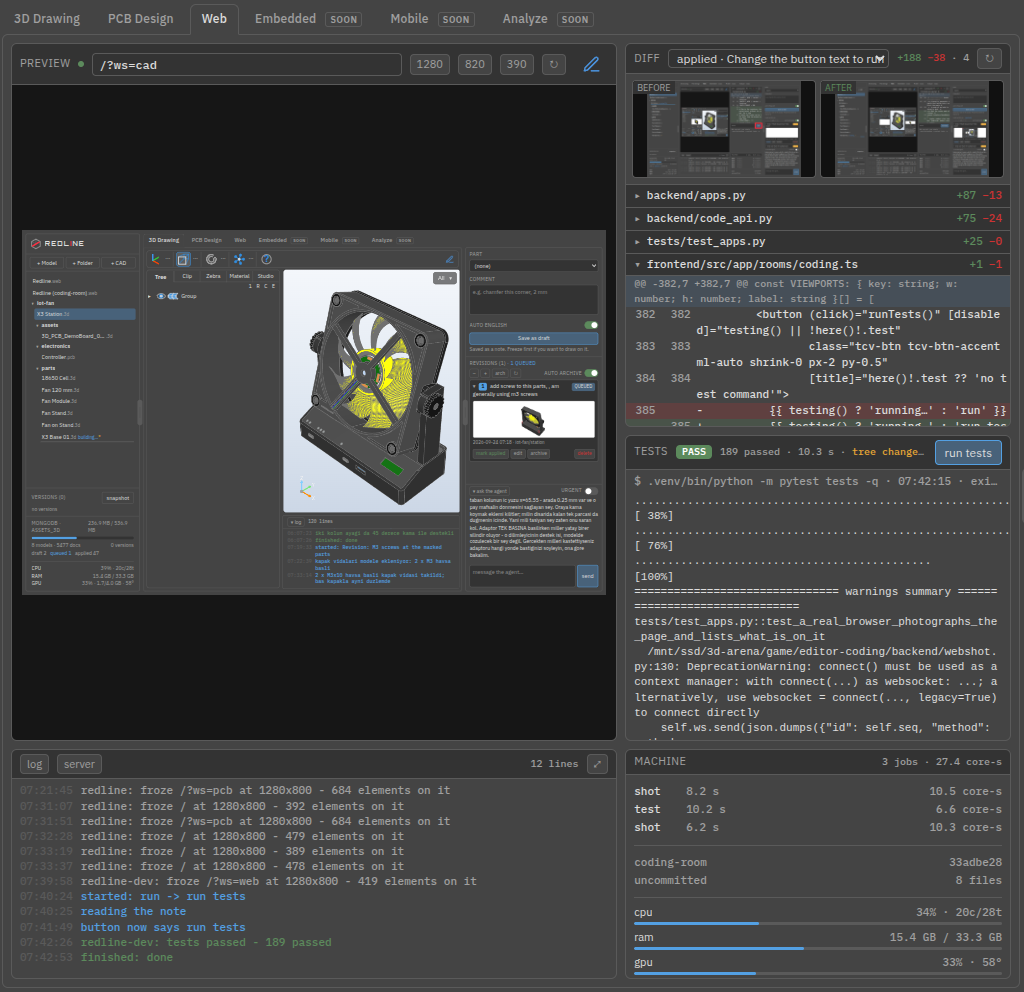
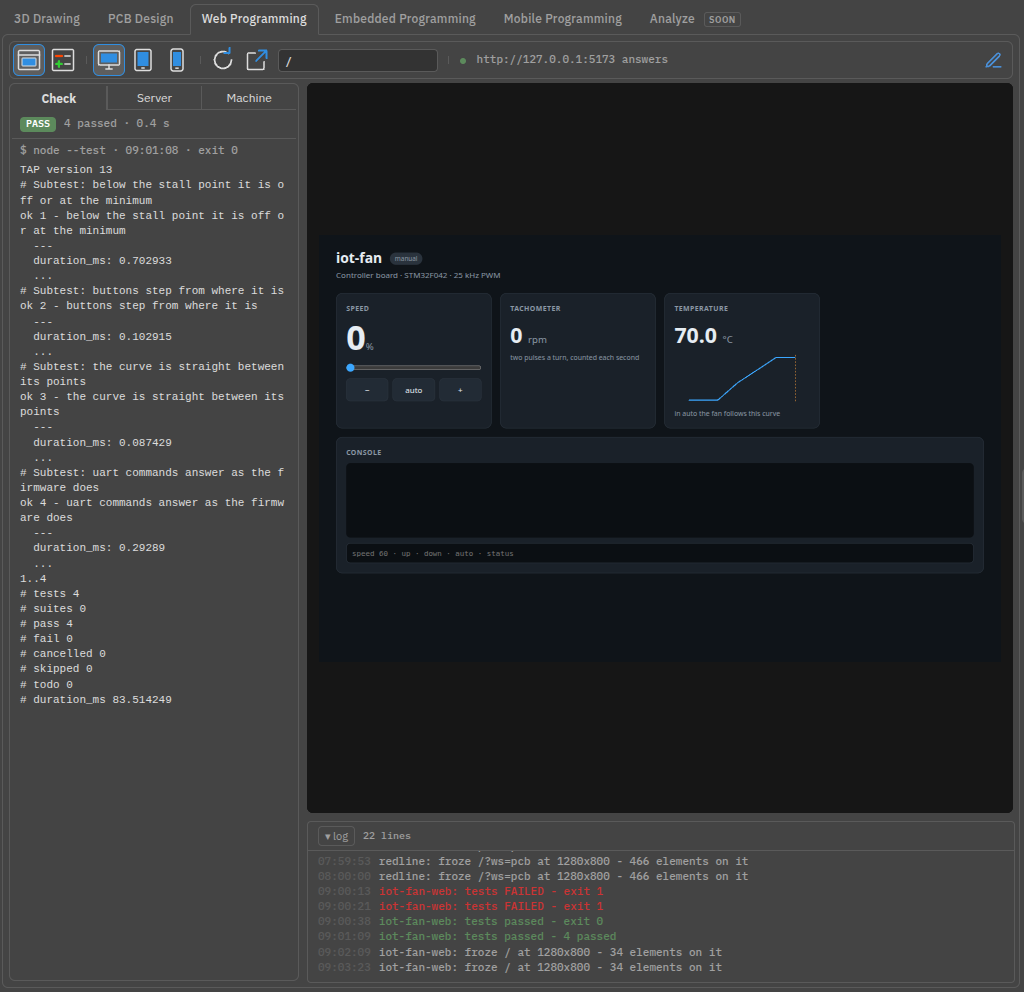
The documents say what the programming rooms are now
README, USAGE, INSTALL, AGENTS, the asset-revisions skill and BACKLOG
had fallen behind the rooms: they still called the tabs Web, Embedded
and Mobile, said Embedded and Mobile only had "what their preview still
needs", described a start-the-dev-server button, host Chrome, and
Redline on 4200 as the example project.

Now: the three rooms by their names, on the one layout every room
shares; nothing running on the host and no button running anything;
Embedded as the firmware view with a picked function as the Part, STM32
and ESP32; Mobile as the emulated phone; the iot-fan projects as the
examples. INSTALL has the three images with their sizes and build times,
KVM for the phone, and why Docker's storage is on /mnt/ssd. AGENTS has
the full `code` command set, the rule not to install around a missing
image, and chat by room; the skill sends non-model notes to their room's
agent. New screenshots, cropped to the room: web-room.png (the live
dashboard and its passing tests), embedded-room.png (the STM32 firmware,
fan_command picked), mobile-room.png (the app on the phone).

diff --git a/USAGE.md b/USAGE.md
@@ -4,16 +4,17 @@
 
 ## The rooms
 
-Along the top: **3D Drawing**, **PCB Design**, **Web**, **Embedded**,
-**Mobile**, **Analyze**. The three in the middle are the coding rooms;
-Web is built, Embedded and Mobile share its notes, diff and tests and
-say what their preview still needs, and Analyze opens on what it needs
-before it can exist. `?ws=pcb` in the URL opens one, and the browser
-remembers the last one you were in.
+Along the top: **3D Drawing**, **PCB Design**, **Web Programming**,
+**Embedded Programming**, **Mobile Programming** and **Analyze**. All but
+Analyze are built, and every built room has the same layout - the 3D
+room's: a toolbar across the top with the pen at its end, tabs down the
+left, the view, and the room's own log under it. Analyze opens on what it
+needs before it can exist. `?ws=pcb` in the URL opens a room, and the
+browser remembers the last one you were in.
 
 The left column belongs to no room. One tree holds everything: a model is
-a `.3d`, a board is a `.pcb`, a code project a `.web`, `.fw` or
-`.mobile`, and clicking any of them opens the room that can show it.
+a `.3d`, a board is a `.pcb`, a program a `.web`, `.fw` or `.mobile`, and
+clicking any of them opens the room that can show it.
 
 The 3D room stays loaded whichever tab is showing — its viewer holds a
 WebGL context and tens of megabytes of geometry, and throwing that away to
@@ -338,46 +339,85 @@ circuit, and is not on the board: there is no shape to place. It is named
 under the drawing — *no footprint for U3* — rather than quietly left out,
 and a part number that does not exist says so the same way.
 
-## Web, Embedded, Mobile
+## Web, Embedded and Mobile Programming
 
-Redlining a running interface. A project is a git checkout with a dev
-server: the room shows the page it serves in a frame, at a route and a
-size - 1280, 820 or 390 wide - scaled into a dark surround so the page
-reads as it renders. Nothing answering? **start the dev server** runs
-the project's own command and its output goes to the **server** tab.
+Redlining a running program. A project is a git checkout: where it is
+served, how it is built, and the command whose exit code says it still
+works. The example projects are **iot-fan**'s - the dashboard, the phone
+app and the controller firmware for the fan in the 3D room, in
+`/mnt/ssd/3d-arena/projects/iot-fan`.
 
-![The Web room: a note's diff with its before and after, and the tests](docs/web-room.png)
+Nothing runs on the machine itself. Each room has its own Docker image
+(see [INSTALL](INSTALL.md)): a page is served and photographed in
+`redline-code-web`, firmware is built and flashed in
+`redline-code-embedded`, and the phone is an emulator in
+`redline-code-mobile`. Nor is there a button that runs anything: the
+person marks, and the agent starts servers, builds, tests and flashes.
 
-**Freeze** is the 3D room's pen button. It takes a real screenshot of the
-route with headless Chrome - about five seconds - and puts the same seven
-drawing tools over it. Every mark is laid on the page's elements as it is
-drawn: a ring means the outermost element mostly inside it, an arrow the
+### Web Programming
+
+![The Web room: the iot-fan dashboard, live, and its tests](docs/web-room.png)
+
+The page runs in the view, in a frame at a chosen size - desktop, tablet
+or phone, from the toolbar - scaled into a dark surround so it reads as it
+renders. **The pen** takes a real screenshot of the route in the web
+container's Chrome, about three seconds, and puts the same seven drawing
+tools over it. Every mark is laid on the page's elements as it is drawn:
+a ring means the outermost element mostly inside it, an arrow the
 smallest element under its head. What it landed on is outlined over the
-picture, listed under it, and offered in the Part field as
-`button.tcv-btn "build" · rooms/pcb.ts` - which button, in which file.
-**Save as draft** files the note with the picture and that list.
+picture and offered in the Part field with its file -
+`#duty "0" · public/index.html`, or `button.tcv-btn "build" ·
+rooms/pcb.ts` for an Angular component. **Save as draft** files the note
+with the picture and that list.
 
-The **diff** pane shows the working tree against HEAD, or one note's own
-change: only the files that moved since it was drawn, so somebody else's
-uncommitted work in the same checkout stays out of it. Pick a note and
-its before and after sit over its diff - the same route at the same size,
-twice. **tests** runs the project's test command; a pass says when the
-tree has changed since, rather than showing a green from an older tree. A
-note is not done until they pass and the after shot is taken, and the
+### Embedded Programming
+
+![The Embedded room: the STM32 firmware as built, a function picked](docs/embedded-room.png)
+
+Firmware has no screen to draw on, so there is no pen here. The view is
+the firmware as built: memory per region - with how much it grew since
+the build before - and the largest functions and tables, file by file.
+Click one and it becomes the note's Part, `fan_command ·
+firmware/common/fan.c:66`, the way the board room offers its components.
+STM32 and ESP32 both: the ARM or Xtensa toolchain is chosen from the
+image itself. The **Boards** tab lists an ST-Link or an ESP32 serial port
+when one is plugged in, and the agent programs it (`code flash`).
+
+### Mobile Programming
+
+![The Mobile room: the iot-fan app on the emulated phone](docs/mobile-room.png)
+
+The view is the phone - an emulated Pixel 7 on KVM, its screen refreshed
+every second and a half, the project put on it when its room opens. The
+pen freezes the phone's own screen; a page's elements come from the
+phone's Chrome and a native app's from its view tree, both in the
+screen's pixels, so a ring round the **+** button is `#up "+" ·
+mobile/public/index.html:26`.
+
+### The diff, the check
+
+The toolbar's second button turns the view into the **diff**: the working
+tree against HEAD, or one note's own change - only the files that moved
+since it was drawn, so somebody else's uncommitted work in the same
+checkout stays out of it - with the note's before and after over it. The
+**Check** tab shows the last test run; a pass says so when the tree has
+changed since, rather than showing a green from an older one. A note is
+not done until the check passes and the after shot is taken, and the
 agent's `code done` will not mark it applied otherwise.
 
 A project is registered through the API:
 
 ```bash
-curl -X PUT localhost:8000/api/apps/redline -H 'content-type: application/json' -d '{
-  "title": "Redline", "platform": "web", "repo": "/path/to/checkout",
-  "url": "http://127.0.0.1:4200", "dev": "./start.sh",
-  "test": ".venv/bin/python -m pytest tests -q", "routes": ["/", "/?ws=pcb"]}'
+curl -X PUT localhost:8000/api/apps/iot-fan-web -H 'content-type: application/json' -d '{
+  "title": "iot-fan dashboard", "platform": "web", "folder": "iot-fan",
+  "repo": "/mnt/ssd/3d-arena/projects/iot-fan", "cwd": "web",
+  "url": "http://127.0.0.1:5173", "dev": "node server.js", "test": "node --test"}'
 ```
 
-Embedded and Mobile keep everything but the picture for now: firmware has
-no page to frame yet (a serial console or a display capture would go
-there), and a phone app can be drawn on when it is served on the web.
+Firmware adds `target` (`stm32` or `esp32`), `build` - with `$BUILD` for
+Redline's own output directory, never the project's tree - and `flash`
+(`$ELF`, `$BUILD`, `$PORT`). A phone app served on the web gives the url
+as the phone sees the host, `http://10.0.2.2:5174`.
 
 ## The left column
 

diff --git a/AGENTS.md b/AGENTS.md
@@ -227,18 +227,29 @@ Then `done <id>` as usual.
 
 ## Code notes
 
-A queued item marked `[WEB]`, `[EMBEDDED]` or `[MOBILE]` is a note on a
-running interface, written in one of the three coding rooms. `model` is a
-project's id: a git checkout, the address its dev server answers on, and
-its test command. The drawing is a real screenshot of one route at one
-size, and the note carries what was under the marks - selector, box, and
-the file that renders it.
+A queued item marked `[WEB]`, `[EMBEDDED]` or `[MOBILE]` is a note from
+one of the programming rooms. `model` is a project's id: a git checkout,
+where it is served or how it is built, and its test command. A web or
+phone note's drawing is a real screenshot of one route at one size, and
+the note carries what was under the marks - selector, box, and the file
+that renders it. A firmware note has no drawing; its `part` is the
+function or table it is about, as `fan_command · firmware/common/fan.c:66`.
+
+**Nothing runs on the host.** Every command below runs in the room's own
+Docker image - `redline-code-web`, `-embedded`, `-mobile` - with the
+checkout mounted at its own path. Do not install a compiler, a browser
+or an SDK to get around a missing image; say which image is missing.
 
 ```bash
-.venv/bin/python tools/revisions.py code show <id>    # note, page, elements, drawing
-.venv/bin/python tools/revisions.py code diff <id>    # what changed since it was drawn
-.venv/bin/python tools/revisions.py code test <id>    # the project's test command
-.venv/bin/python tools/revisions.py code done <id>    # tests, after shot, applied
+.venv/bin/python tools/revisions.py code show <id>     # note, page, elements, drawing
+.venv/bin/python tools/revisions.py code diff <id>     # what changed since it was drawn
+.venv/bin/python tools/revisions.py code test <id>     # the project's test command
+.venv/bin/python tools/revisions.py code done <id>     # check, after shot, applied
+.venv/bin/python tools/revisions.py code serve <app>   # its dev server, in its container
+.venv/bin/python tools/revisions.py code build <app>   # firmware, into Redline's cache
+.venv/bin/python tools/revisions.py code boards x      # STM32 / ESP32 boards plugged in
+.venv/bin/python tools/revisions.py code flash <app>   # program the board
+.venv/bin/python tools/revisions.py code phone x       # start the emulated phone
 ```
 
 `show` writes the drawing out: **read it**, then go to the file it names.
@@ -247,12 +258,17 @@ already uncommitted when the note was drawn are somebody else's work in
 progress: `show` counts them, and `code diff` leaves out what they said
 then, so the diff is yours alone.
 
-`done` is the only way a code note closes. It runs the test command and
-**refuses while it fails**, then photographs the same route at the same
-size as the after picture, freezes the patch onto the note and marks it
-applied. `done <id>` does the same thing for a code note, so the check
-cannot be skipped by using the older command. Log with `--room web` (or
-`embedded`, `mobile`) so the lines land in that room's log.
+`done` is the only way a code note closes. For firmware it builds first
+and refuses a build that fails; then it runs the test command and
+**refuses while it fails**, photographs the same route at the same size
+as the after picture, freezes the patch onto the note and marks it
+applied. `done <id>` does the same for a code note, so the check cannot
+be skipped by using the older command. Say what a firmware change cost in
+flash and RAM - the build prints both.
+
+Each room has its own log and its own thread: `log --room web`,
+`chat --room web`, `say --room web` (or `embedded`, `mobile`). The room
+agents in `.claude/agents/` already know theirs.
 
 ## Designing a board from a description
 
@@ -350,7 +366,8 @@ Nothing counts as work until the user presses *queue*.
 .venv/bin/python tools/revisions.py finish <id>          # close that note's run
 .venv/bin/python tools/revisions.py after <id>           # the "after" picture
 .venv/bin/python tools/revisions.py usage [--full]       # what the work cost
-.venv/bin/python tools/revisions.py code show|diff|test|after|done <id>  # code notes
+.venv/bin/python tools/revisions.py code show|diff|test|done <id>        # code notes
+.venv/bin/python tools/revisions.py code serve|build|flash <app>          # in the room's container
 .venv/bin/python tools/render.py <id> [--camera=…|--only PART]
 ```
 

diff --git a/docs/BACKLOG.md b/docs/BACKLOG.md
@@ -125,12 +125,8 @@ Left to do, roughly in order:
 
 - **No + App in the left column.** A project is registered with
   `PUT /api/apps/{id}`; fine for an agent, no use to a person.
-- **Embedded has nothing to frame.** A serial console in the log pane's
-  second tab and a capture of the device's display as the "page" are the
-  obvious two; the notes, diff and tests already work for firmware.
-- **Mobile is a phone-sized web page.** Real devices want an emulator
-  screenshot (adb exec-out screencap, xcrun simctl io) and a view
-  hierarchy dump in place of the DOM inventory.
+- **A serial console for firmware.** A plugged-in board's output would
+  belong in the Build tab's neighbour; nothing reads a port yet.
 - **A note's picture is 340-380 kB of PNG** and takes about 4.6 s to
   reach the database at this link's speed. A lossless crop to what the
   marks touch, or WebP, would cut it several times over.
@@ -145,21 +141,25 @@ Asked for on 2026-09-24:
   **Mobile Programming**, and stay three tabs of their own.
 - **Each has its own Docker image and its own view.** Nothing is
   installed on the host. `docker/code/web.Dockerfile` (Chrome, Node,
-  python for the photographer), `embedded.Dockerfile` (arm-none-eabi,
-  CMake, Ninja), `mobile.Dockerfile` (Android SDK, an emulated Pixel 7 on
-  KVM). A shot, a build and a test run go through the tab's container,
+  python for the photographer), `embedded.Dockerfile` (ESP-IDF's own
+  image with arm-none-eabi, OpenOCD and stlink added), `mobile.Dockerfile`
+  (Android SDK, an emulated Pixel 7 on KVM, Node). A shot, a build and a test run go through the tab's container,
   with the checkout mounted at its own path and the host's network.
-  - Web: the page in a frame, as now.
-  - Embedded: the firmware as built - memory regions and the largest
-    symbols, each one tagged with its source file and line so a ring
-    round it says `Core/Src/main.c:212`. First project: the STM32H743
-    firmware in ~/Desktop/stm32_projects/PS, built out of tree (4.0 s).
+  - Web: the page in a frame, at desktop, tablet or phone size.
+  - Embedded: no preview and no pen. The view is the firmware as built -
+    memory regions and the largest functions and tables with their files
+    - and a click on one makes it the note's Part. STM32 and ESP32.
   - Mobile: the phone's screen, live, from `adb screencap`; freeze lists
     the elements on it (uiautomator for a native app, Chrome's DevTools
     for a page) with their boxes in the screen's pixels.
 - **No run or build buttons.** The person marks; the agent builds, runs
-  the tests and starts servers. The board room's are going the same way
-  (its owner is doing that).
+  the tests, starts servers and flashes boards. The board room lost its
+  own in 2e593cb.
+- **The example projects are iot-fan's** - dashboard, phone app, and the
+  controller firmware for the Controller board's STM32F042 and for an
+  ESP32 - in /mnt/ssd/3d-arena/projects/iot-fan. Redline itself is no
+  longer a project in these rooms.
+- **All rooms share one layout**, the 3D room's (rooms/frame.ts).
 - **One main agent, one sub-agent per tab.** The main agent waits on the
   queue, reads the thread, and hands each queued note to the sub-agent
   for its room (`.claude/agents/redline-*.md`). Rooms work in parallel,

diff --git a/README.md b/README.md
@@ -71,12 +71,14 @@ as well as a solid does.
 |---|---|
 | **3D Drawing** | parametric solids — this is what is built |
 | **PCB Design** | atopile for the circuit, LCSC for the parts, KiCad in a container for the board |
-| **Web · Embedded · Mobile** | redlining a running interface: draw on what is on screen, the change arrives as a diff, the tests are the check |
+| **Web Programming** | a page while it runs: draw on it, the change arrives as a diff, the tests are the check |
+| **Embedded Programming** | STM32 and ESP32 firmware: what the build made of the source, the change as a diff, programmed by the agent |
+| **Mobile Programming** | an app on an emulated phone, redlined the way a page is |
 | **Analyze** | what all of it cost, across every revision rather than one card at a time |
 
-The 3D, board and Web rooms are built. Embedded and Mobile share the Web
-room's notes, diffs and tests and say what their preview still needs;
-Analyze is a tab with the groundwork written down, and says so.
+All but Analyze are built, and they share one layout - the 3D room's -
+so a board, a page and a phone are looked at the same way. Analyze is a
+tab with the groundwork written down, and says so.
 
 ![A board in the PCB room: atopile for the circuit, KiCad for the board](docs/pcb-room.png)
 
@@ -85,13 +87,20 @@ LCSC by its number — footprint and 3D model together — and has KiCad
 place and draw it inside a container, so a gigabyte of libraries never
 lands on the machine. Out come a layer render, a model and a BOM.
 
-The Web room redlines a page while it runs. Freeze takes a real
-screenshot in headless Chrome, a ring or an arrow is laid on the
-elements under it - "this button, in rooms/pcb.ts", not "these
-pixels" - and the note comes back as a diff with the test suite as the
-check and the same page, at the same size, as the after.
+The programming rooms redline a program while it runs. The pen takes a
+real screenshot - of a page in a container's Chrome, of an emulated
+phone's screen - and a ring or an arrow is laid on the elements under
+it: "this button, in public/index.html", not "these pixels". Firmware has
+no screen, so its view is what the build made of the source, and a note
+is about a function picked there. Each comes back as a diff, with the
+test suite or the build as the check and the same screen afterwards as
+the after.
 
-![The Web room: a note's diff with its before and after](docs/web-room.png)
+![The Web room: the iot-fan dashboard running, and its tests](docs/web-room.png)
+
+| | |
+|---|---|
+| ![The Embedded room: STM32 firmware as built](docs/embedded-room.png) | ![The Mobile room: the app on the phone](docs/mobile-room.png) |
 
 ## Who does the work
 

diff --git a/INSTALL.md b/INSTALL.md
@@ -73,6 +73,38 @@ so a part can be found by name as well as by number. The models go into
 GridFS gzipped, not into the part document: a 9.8 MB STEP file written
 inline took ninety-nine seconds.
 
+## The programming rooms
+
+Web, Embedded and Mobile Programming run everything in Docker - a
+project's dev server, its tests, a firmware build, a phone - so nothing a
+project needs is installed on the machine. One image per room:
+
+```bash
+docker build -f docker/code/web.Dockerfile      -t redline-code-web      docker/code
+docker build -f docker/code/embedded.Dockerfile -t redline-code-embedded docker/code
+docker build -f docker/code/mobile.Dockerfile   -t redline-code-mobile   docker/code
+```
+
+| image | size | what is in it |
+|---|---|---|
+| `redline-code-web` | 1.2 GB | Chrome (to photograph pages), Node, Python |
+| `redline-code-embedded` | 12.1 GB | ESP-IDF 5.3 with its Xtensa and RISC-V compilers, arm-none-eabi, CMake, Ninja, OpenOCD, stlink |
+| `redline-code-mobile` | 5.1 GB | the Android SDK and an emulated Pixel 7 (Android 14, Play Store image), Node |
+
+Built in parallel they took 167, 277 and 217 seconds here. They are
+large: keep Docker's storage on a disk with room for them. On this
+machine it lives on `/mnt/ssd` (`"data-root": "/mnt/ssd/docker"` in
+`/etc/docker/daemon.json`) - the system disk filled up the first time
+they were built on it.
+
+The phone needs **KVM** (`/dev/kvm`); with it, it boots in about 45
+seconds, and it is left running as the container `redline-phone`. A board
+is programmed through the Embedded image with the device passed through:
+an ST-Link for an STM32, the serial port for an ESP32.
+
+`X3_WEB_IMAGE`, `X3_EMBEDDED_IMAGE` and `X3_MOBILE_IMAGE` name other
+images. Without an image, a room still opens and says which one to build.
+
 ## Themes
 
 `?theme=light`, `?theme=oled` or `?theme=default` in the URL, or set

diff --git a/.claude/skills/asset-revisions/SKILL.md b/.claude/skills/asset-revisions/SKILL.md
@@ -28,6 +28,18 @@ disk**; both source code and generated artifacts live in the database.
    before the first edit, and every step that takes more than a moment gets
    its own `log` line with a percentage.
 
+## Not every queued item is a model
+
+The queue is shared by five rooms. `revisions.py queue` marks a board note
+`[BOARD]` and a programming room's note `[WEB]`, `[EMBEDDED]` or
+`[MOBILE]`; `revisions.py kind <id>` says which room any note is from.
+This skill is the model loop. Everything else goes to that room's agent
+(`redline-pcb`, `redline-web`, `redline-embedded`, `redline-mobile` in
+`.claude/agents/`) and follows AGENTS.md - a firmware note does not have
+a camera, and `build` does not take a board.
+
+Rooms work in parallel, so close a run by its id: `finish <id>`.
+
 ## Important: only "queued" items are your work
 
 Revisions have four states:
